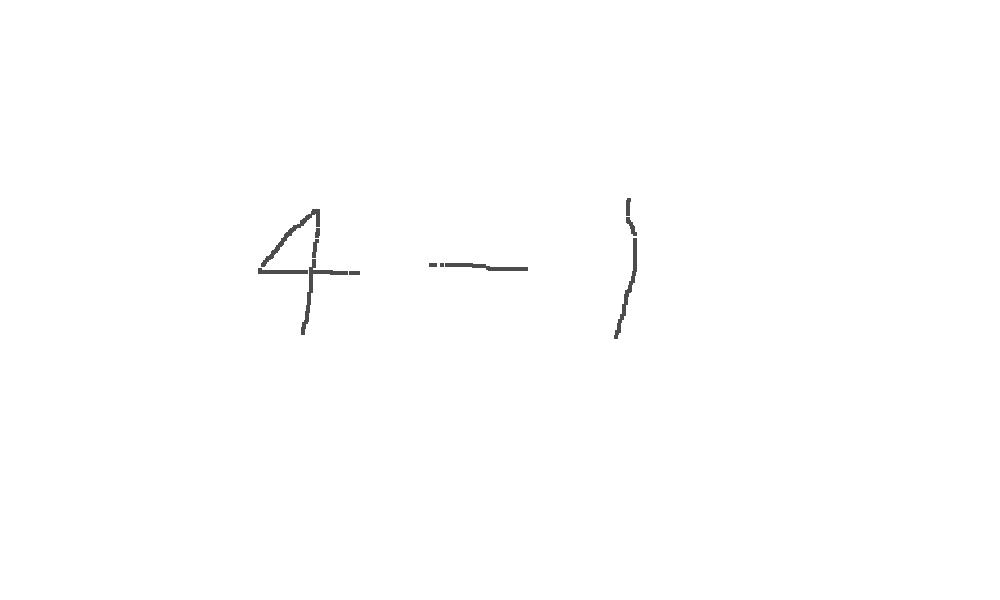
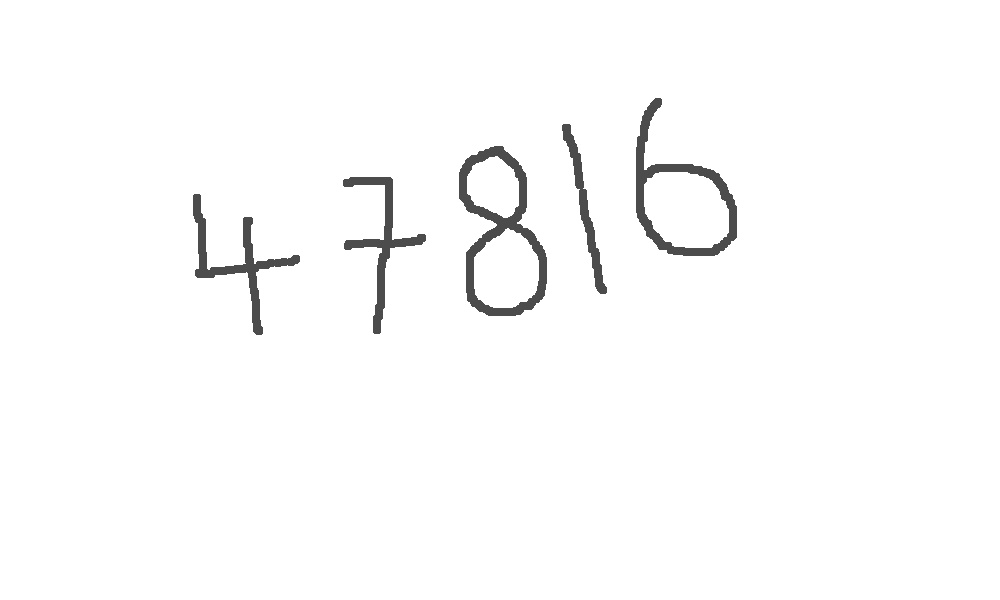
added tensorflow gpu

diff --git a/static/app.js b/static/app.js
@@ -31,7 +31,7 @@
     // Keep track of the mouse button being pressed and draw a dot at current location
     function sketchpad_mouseDown() {
         mouseDown=1;
-        drawDot(ctx,mouseX,mouseY,2);
+        drawDot(ctx,mouseX,mouseY,4);
     }
 
     // Keep track of the mouse button being released
@@ -46,7 +46,7 @@
 
         // Draw a dot if the mouse button is currently being pressed
         if (mouseDown==1) {
-            drawDot(ctx,mouseX,mouseY,2);
+            drawDot(ctx,mouseX,mouseY,4);
         }
     }
 
@@ -70,7 +70,7 @@
         // Update the touch co-ordinates
         getTouchPos();
 
-        drawDot(ctx,touchX,touchY,2);
+        drawDot(ctx,touchX,touchY,4);
 
         // Prevents an additional mousedown event being triggered
         event.preventDefault();
@@ -82,7 +82,7 @@
         getTouchPos(e);
 
         // During a touchmove event, unlike a mousemove event, we don't need to check if the touch is engaged, since there will always be contact with the screen by definition.
-        drawDot(ctx,touchX,touchY,2); 
+        drawDot(ctx,touchX,touchY,4); 
 
         // Prevent a scrolling action as a result of this touchmove triggering.
         event.preventDefault();

diff --git a/templates/canvas.html b/templates/canvas.html
@@ -29,7 +29,7 @@
     {% if final %}
       <h1> {{ final }}</h1>
       {% endif %}
-{% if visible %}
+
     </div>
 </body>
 

diff --git a/app.py b/app.py
@@ -34,7 +34,7 @@ def upload_base64_file():
 
             # input to model
             final=model.predict()
-
+            print('string ',final)
         return render_template("canvas.html" , final=final)
 
 

diff --git a/gpucheck.py b/gpucheck.py
@@ -1,0 +1,4 @@
+import tensorflow as tf
+
+print('version',tf.__version__)
+print('GPU avaliable ', tf.test.is_gpu_available())
